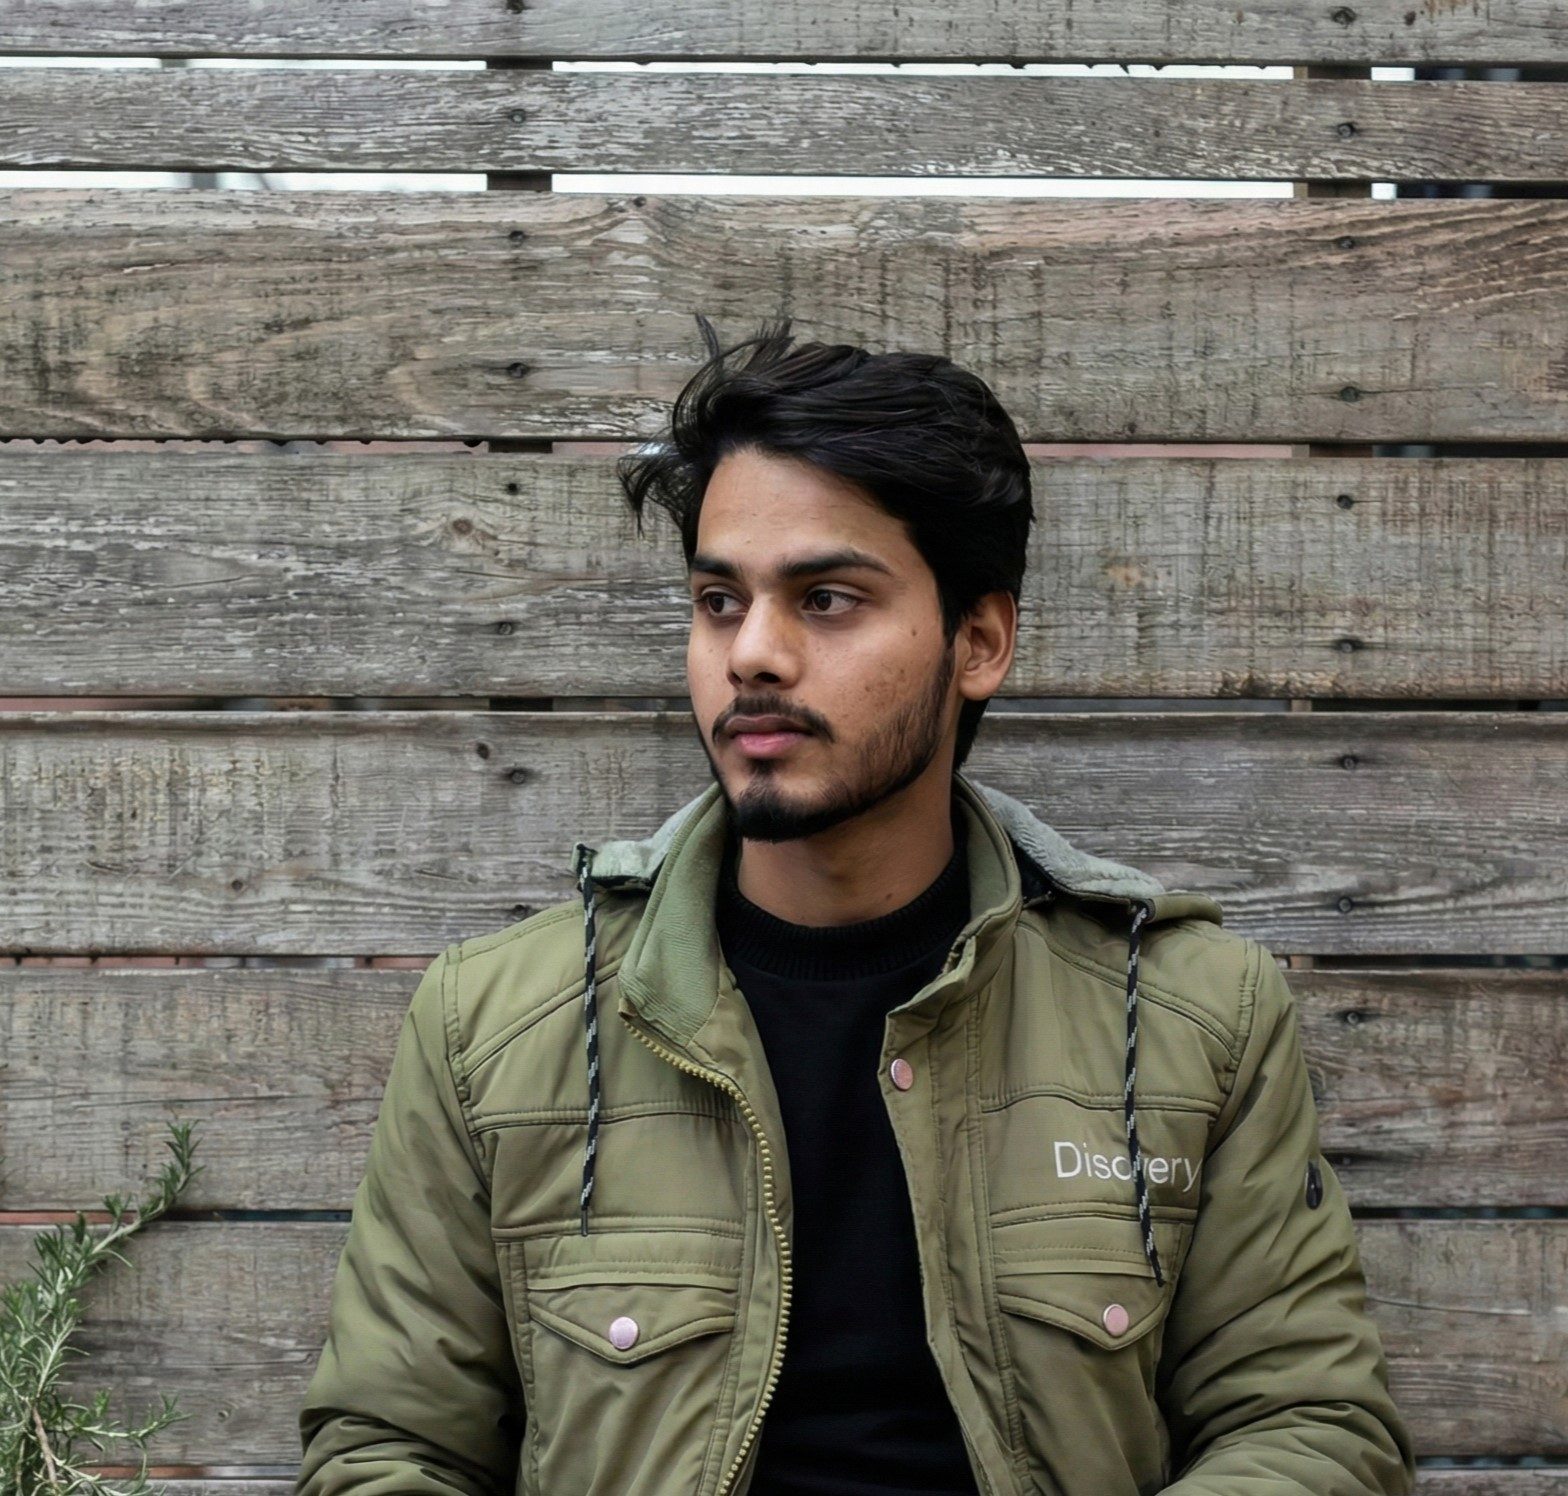
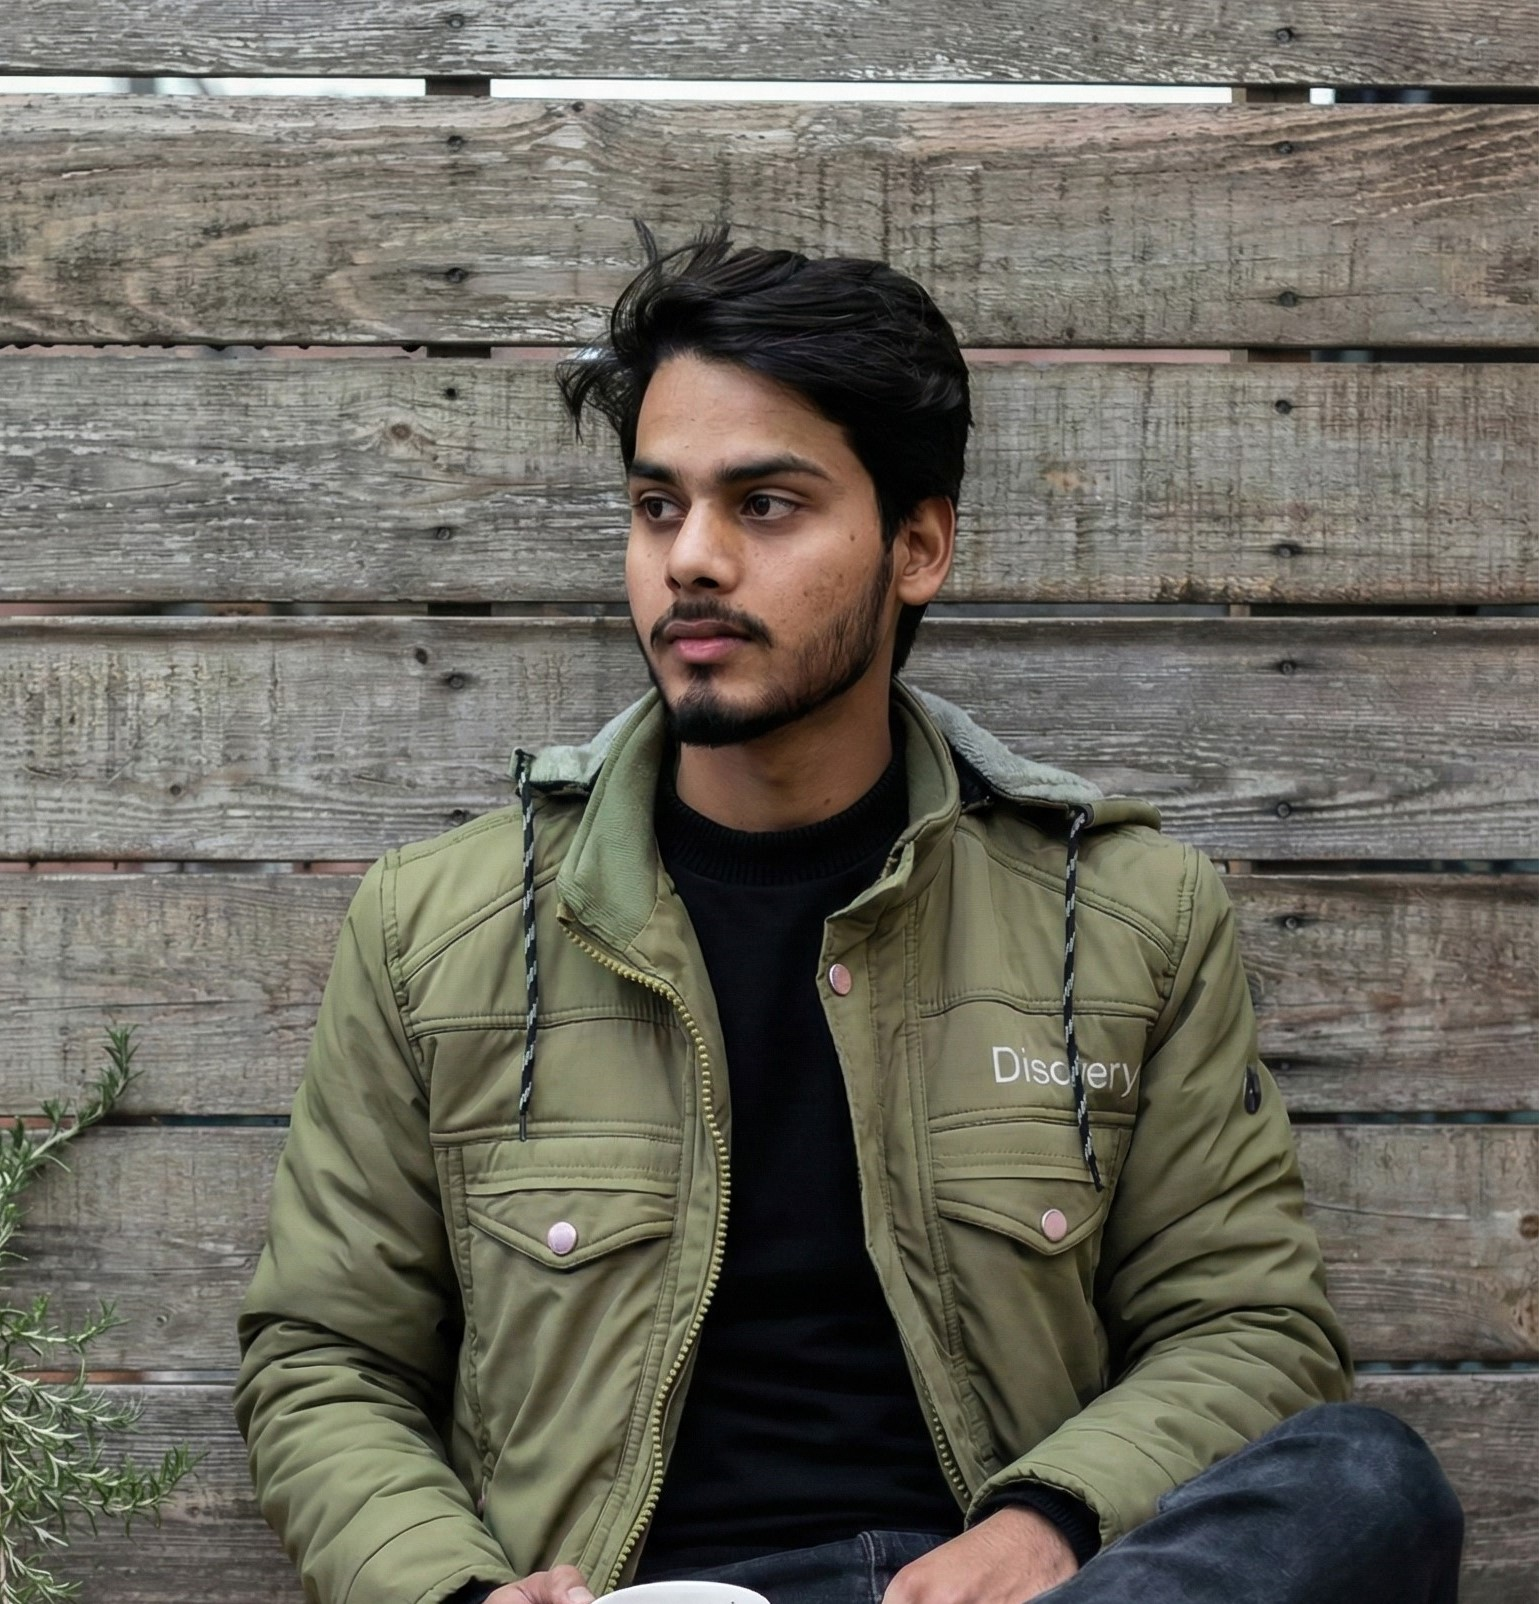
Update

diff --git a/index.html b/index.html
@@ -99,7 +99,7 @@
 
       <div class="container" data-aos="fade-up" data-aos-delay="100">
         <h2>Shivam Chauhan</h2>
-        <p>I'm <span class="typed" data-typed-items="Developer, Game Developer, Animator,3D Atist"> Developer</span><span class="typed-cursor typed-cursor--blink" aria-hidden="true"></span><span class="typed-cursor typed-cursor--blink" aria-hidden="true"></span></p>
+        <p>I'm <span class="typed" data-typed-items="Developer, Game Developer, Animator,3D Artist"> Developer</span><span class="typed-cursor typed-cursor--blink" aria-hidden="true"></span><span class="typed-cursor typed-cursor--blink" aria-hidden="true"></span></p>
       </div>
 
     </section><!-- /Hero Section -->
@@ -110,7 +110,7 @@
       <!-- Section Title -->
       <div class="container section-title" data-aos="fade-up">
         <h2>About</h2>
-        <p>I am Shivam Chauhan, I’m a passionate 3rd-year college student with skills in game development, web development, and graphic design. I enjoy creating interactive experiences, clean user interfaces, and visually appealing designs. I’m constantly learning and improving my craft, and I love working on projects that challenge my creativity and technical skills.</p>
+        <p>I'm Shivam Chauhan,a passionate 3rd-year college student with skills in game development, web development, and graphic design. I enjoy creating interactive experiences, clean user interfaces, and visually appealing designs. I’m constantly learning and improving my craft, and I love working on projects that challenge my creativity and technical skills.</p>
       </div><!-- End Section Title -->
 
       <div class="container" data-aos="fade-up" data-aos-delay="100">
@@ -122,7 +122,7 @@
           <div class="col-lg-8 content">
             <h2>Game Developer &amp; Web Developer.</h2>
             <p class="fst-italic py-3">
-              I’m a Game Developer, UI/UX Designer & Web Developer with a keen eye for detail and a love for creating intuitive user experiences.
+                A dedicated and creative developer with experience in Web Development, Game Development, graphic design and UI/UX Designer with a keen eye for detail and a love for creating intuitive user experiences.
             </p>
             <div class="row">
               <div class="col-lg-6">
@@ -143,7 +143,7 @@
               </div>
             </div>
             <p class="py-3">
-              A dedicated and creative developer with experience in web development, game development, and graphic design. I love turning ideas into functional and visually appealing digital products. Whether it's building a website, designing graphics, or developing a game, I always aim to deliver high-quality work. My goal is to grow professionally, work on innovative projects, and continue expanding my skillset.
+            I love turning ideas into functional and visually appealing digital products. Whether it's building a website, designing graphics, or developing a game, I always aim to deliver high-quality work. My goal is to grow professionally, work on innovative projects, and continue expanding my skillset.
             </p>
           </div>
         </div>
@@ -202,7 +202,7 @@
 
       <!-- Section Title -->
       <div class="container section-title" data-aos="fade-up">
-        <h2>Skills</h2>
+        <h2>Skills & Expertise</h2>
         <p>Web development, game development, graphic design, and more. Along with a strong foundation in various programming languages and tools, I am always eager to learn new technologies and improve my skills.</p>
       </div><!-- End Section Title -->
 
@@ -213,7 +213,7 @@
           <div class="col-lg-6">
 
             <div class="progress">
-              <span class="skill"><span>front-end</span> <i class="val">100%</i></span>
+              <span class="skill"><span>HTML,CSS</span> <i class="val">100%</i></span>
               <div class="progress-bar-wrap">
                 <div class="progress-bar" role="progressbar" aria-valuenow="100" aria-valuemin="0" aria-valuemax="100"></div>
               </div>
@@ -704,9 +704,9 @@ Relevant areas of study include web development, game design, UI/UX, and compute
 
       <!-- Section Title -->
       <div class="container section-title" data-aos="fade-up">
-        <h2>Conect</h2>
-        <!-- <p>Necessitatibus eius consequatur ex aliquid fuga eum quidem sint consectetur </p> -->
-      </div><!-- End Section Title -->velit
+        <h2>Get In Touch</h2>
+        <p>I'm currently looking for new opportunities. Whether you have a question or just want to say hi, I'll get back to you as soon as possible!</p>
+      </div><!-- End Section Title -->
 
       <div class="container" data-aos="fade-up" data-aos-delay="100">
 
@@ -792,14 +792,14 @@ Relevant areas of study include web development, game design, UI/UX, and compute
 
     <div class="container">
       <div class="copyright text-center ">
-        <p>© <span>Copyright</span> <strong class="px-1 sitename">iPortfolio</strong> <span>All Rights Reserved</span></p>
+        <p>© <span>Copyright</span> <strong class="px-1 sitename">Portfolio</strong> <span>All Rights Reserved</span></p>
       </div>
       <div class="credits">
         <!-- All the links in the footer should remain intact. -->
         <!-- You can delete the links only if you've purchased the pro version. -->
         <!-- Licensing information: https://bootstrapmade.com/license/ -->
         <!-- Purchase the pro version with working PHP/AJAX contact form: [buy-url] -->
-        Designed by <a href="https://bootstrapmade.com/">BootstrapMade</a> Distributed by <a href="https://themewagon.com">ThemeWagon</a>
+        <!-- Designed by <a href="https://bootstrapmade.com/">BootstrapMade</a> Distributed by <a href="https://themewagon.com">ThemeWagon</a> -->
       </div>
     </div>
 

diff --git a/assets/css/main.css b/assets/css/main.css
@@ -163,7 +163,6 @@ h6 {
   width: 120px;
   border: 10px solid color-mix(in srgb, var(--default-color), transparent 85%);
 }
-
 .header .logo {
   line-height: 1;
   margin-bottom: 15px;
@@ -617,10 +616,13 @@ section,
     font-size: 20px;
   }
 }
-
 /*--------------------------------------------------------------
 # About Section
 --------------------------------------------------------------*/
+.about img {
+  margin-top: 60px;
+}
+
 .about .content h2 {
   font-weight: 700;
   font-size: 24px;
